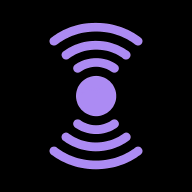
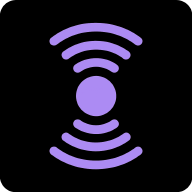
Built web
Branch: main
Commit: 9d96cd4814e9e1da3410d34de07f8d115b6b2f3f

package:peanut 6.0.0

diff --git a/flutter_service_worker.js b/flutter_service_worker.js
@@ -3,17 +3,17 @@ const MANIFEST = 'flutter-app-manifest';
 const TEMP = 'flutter-temp-cache';
 const CACHE_NAME = 'flutter-app-cache';
 
-const RESOURCES = {"flutter_bootstrap.js": "41fe2a09340075ee66d26ea6dfb136c3",
+const RESOURCES = {"flutter_bootstrap.js": "b60c560603d11390ea3694963ecd6833",
 "version.json": "0abd21b2aae2fa86b5bfcfd03cce7cb6",
 "index.html": "9e644033d9d3bc5828a83d759e9f02a6",
 "/": "9e644033d9d3bc5828a83d759e9f02a6",
 "main.dart.js": "b13b078bbedb52f089df76132af6f5b1",
 "flutter.js": "83d881c1dbb6d6bcd6b42e274605b69c",
-"favicon.png": "fec52ed1d270a8432acbda9b06214bb2",
-"icons/Icon-192.png": "6e385ad0814a4ba078f993cab5498ade",
-"icons/Icon-maskable-192.png": "6e385ad0814a4ba078f993cab5498ade",
-"icons/Icon-maskable-512.png": "270977e23c2841f993b03ab820398778",
-"icons/Icon-512.png": "270977e23c2841f993b03ab820398778",
+"favicon.png": "50c9a003842eee4b6f2cc1b3423fe069",
+"icons/Icon-192.png": "82448a702e1fdb97c591de7db534f656",
+"icons/Icon-maskable-192.png": "82448a702e1fdb97c591de7db534f656",
+"icons/Icon-maskable-512.png": "49d8963b814198a720a24d065b9d8d88",
+"icons/Icon-512.png": "49d8963b814198a720a24d065b9d8d88",
 "manifest.json": "4eb1655328f6e10ce4e0edf76be8453a",
 "assets/AssetManifest.json": "73d1abe106bda48ce8d69e8213448ae8",
 "assets/NOTICES": "62f25bf81472046818136c972ac7710b",

diff --git a/flutter_bootstrap.js b/flutter_bootstrap.js
@@ -39,6 +39,6 @@ _flutter.buildConfig = {"engineRevision":"ef0cd000916d64fa0c5d09cc809fa7ad244a57
 
 _flutter.loader.load({
   serviceWorkerSettings: {
-    serviceWorkerVersion: "3330269880"
+    serviceWorkerVersion: "3598484226"
   }
 });
